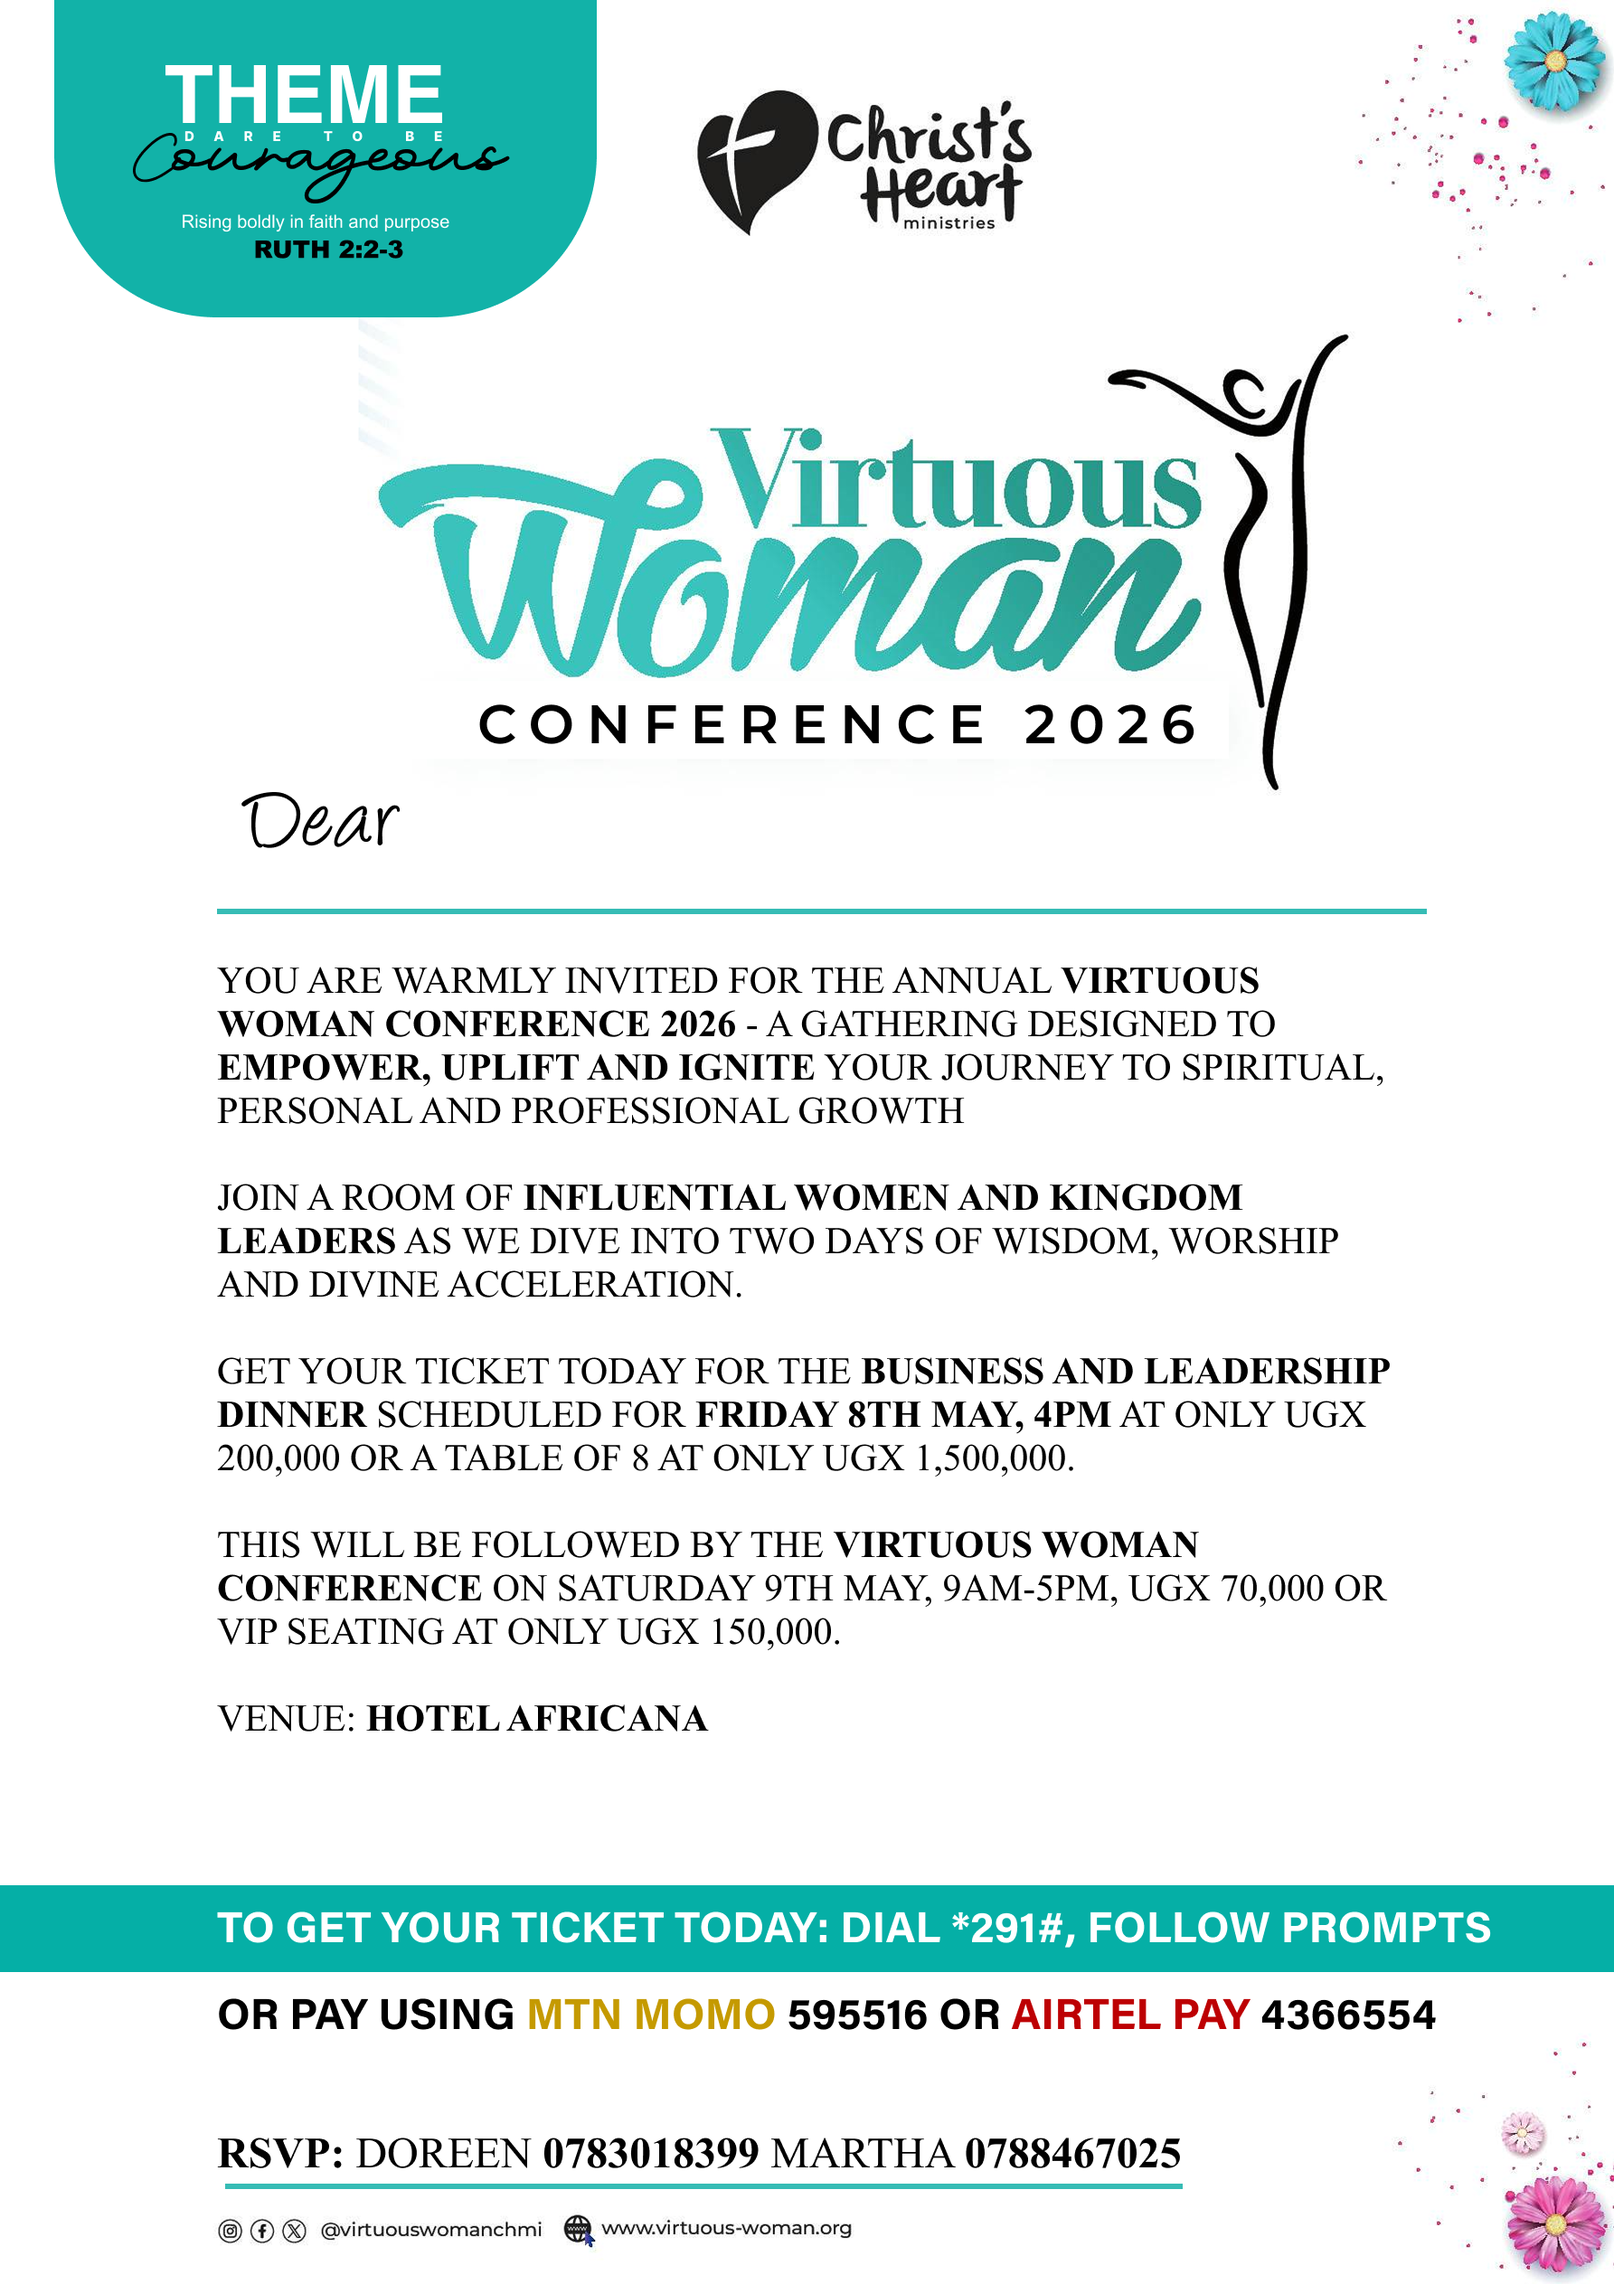
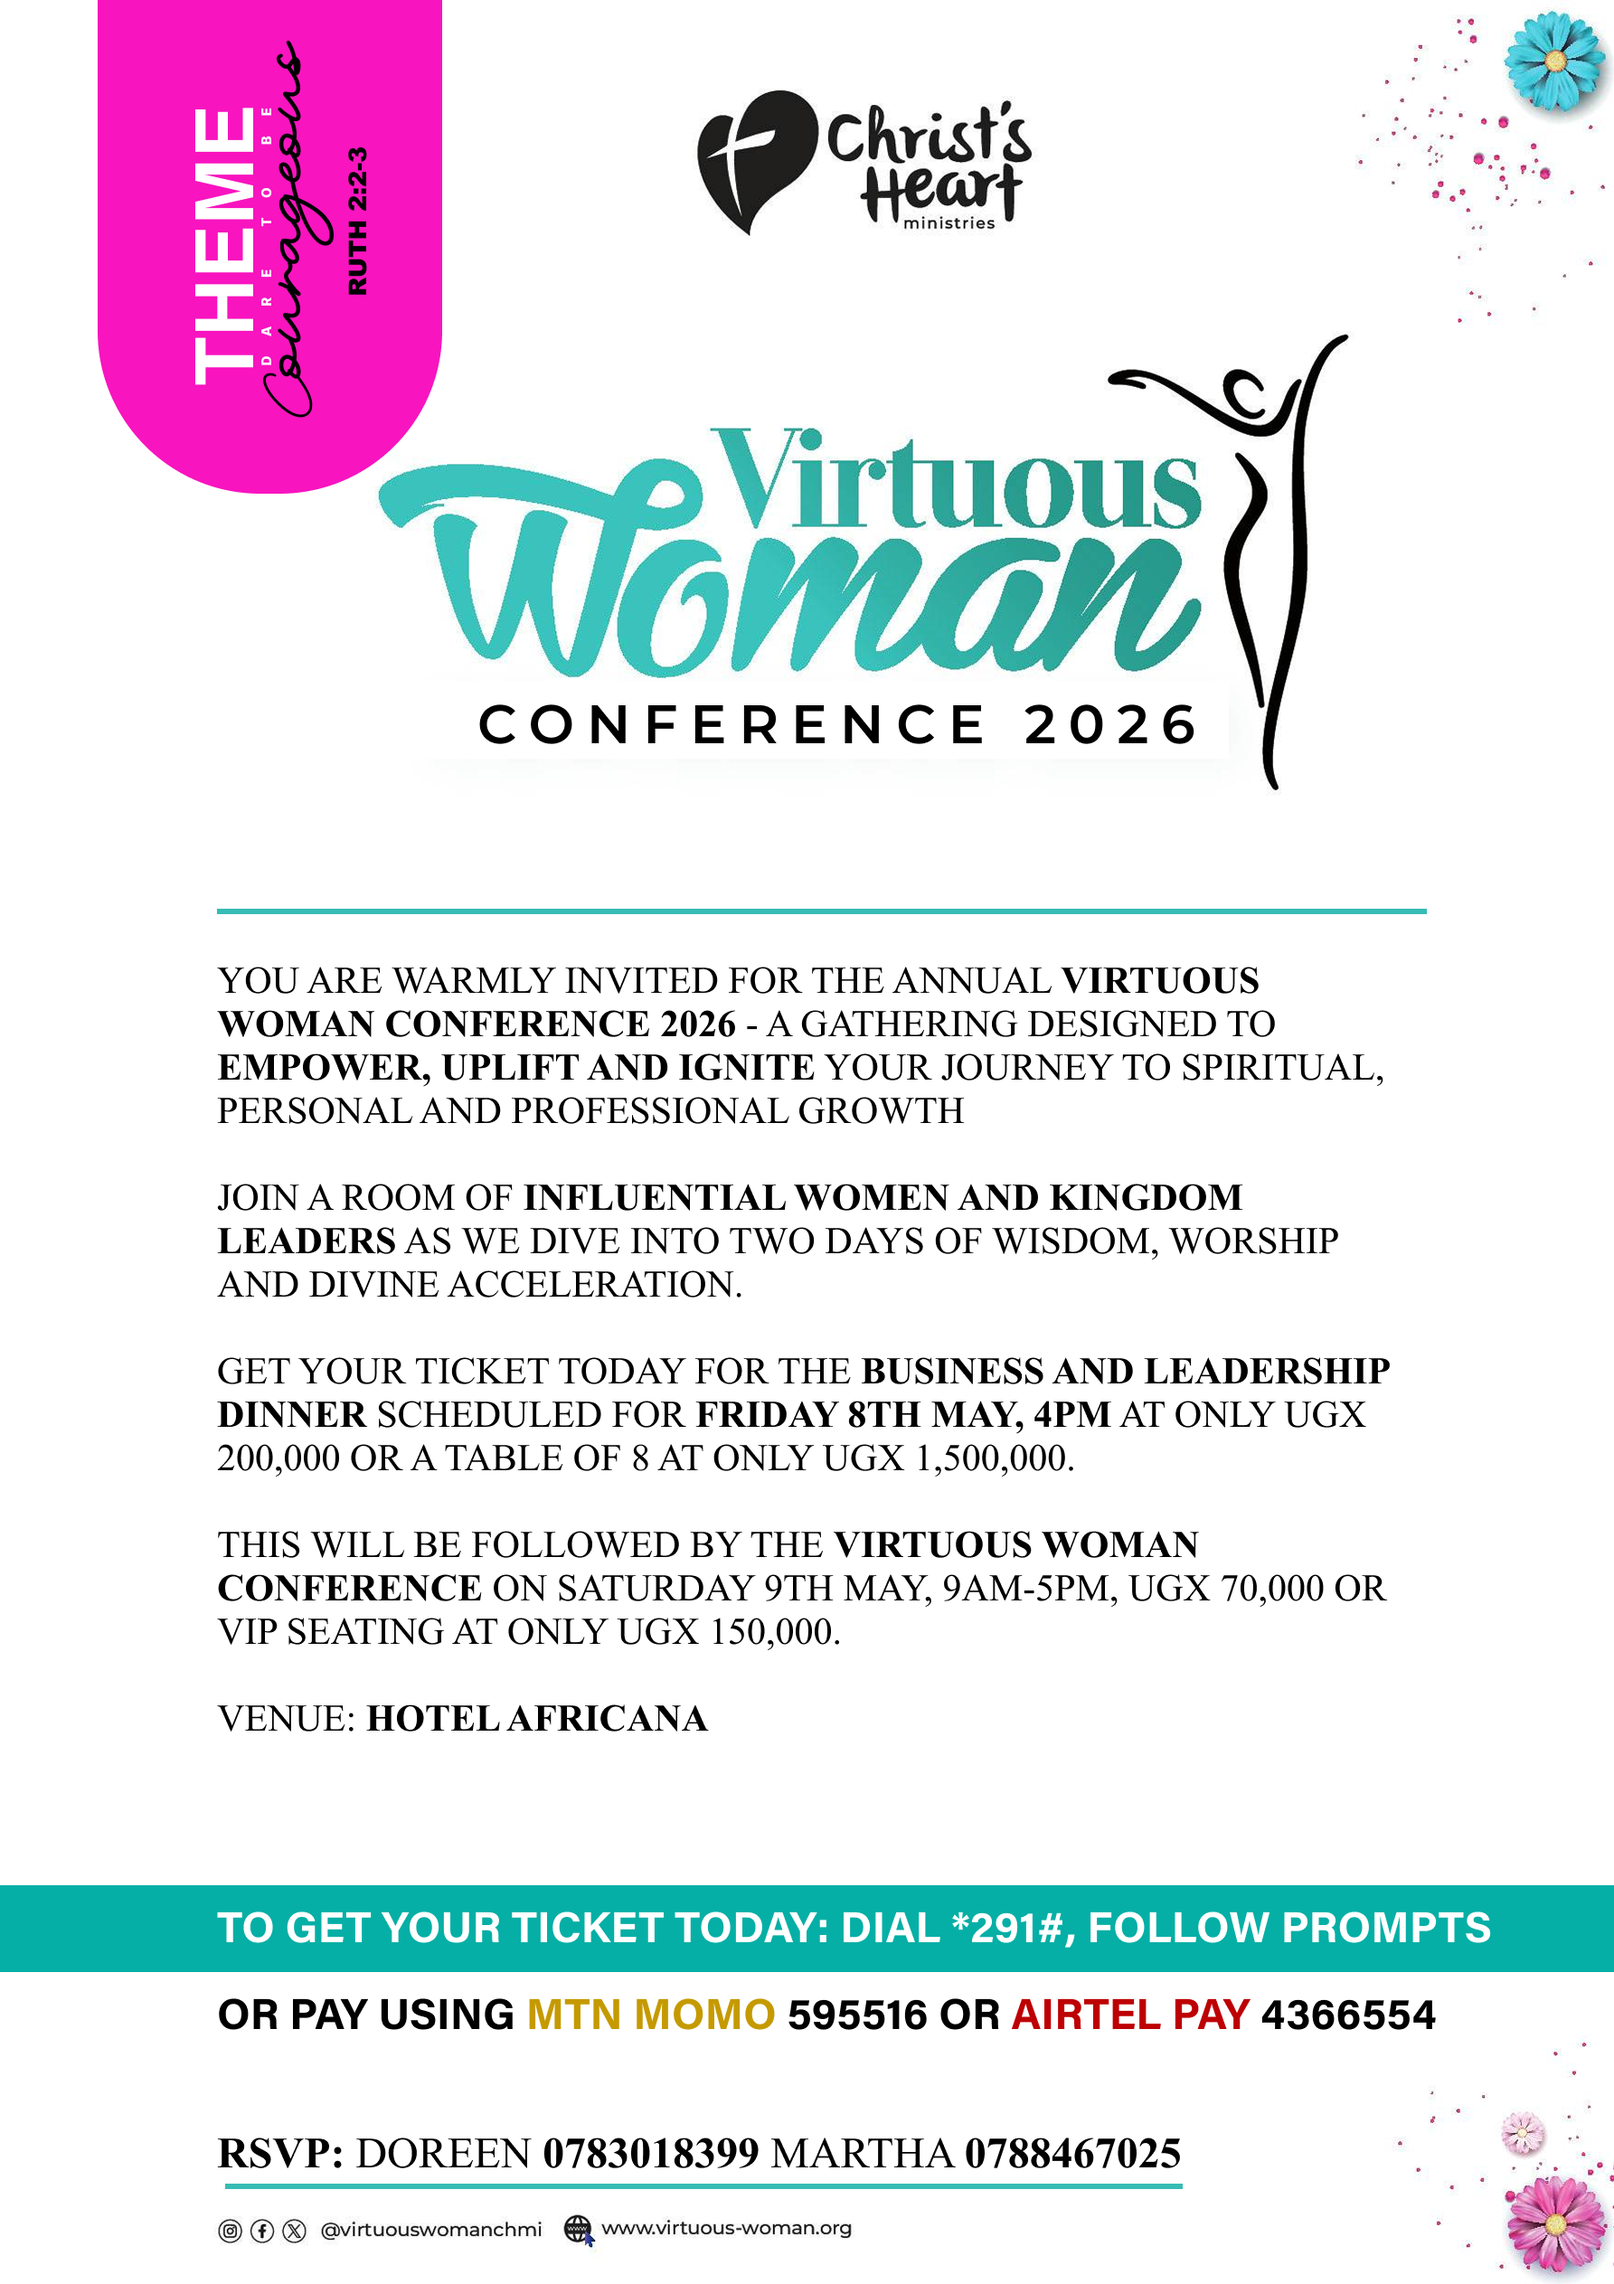
designed card anew to pink

Changed region(s): [[0.0308, 0.0, 0.3697, 0.2162], [0.1541, 0.3397, 0.2465, 0.3705]]

diff --git a/src/app/card-generator/card-generator.component.css b/src/app/card-generator/card-generator.component.css
@@ -19,7 +19,7 @@
   font-size: 17.5px;
   font-family: "Poppins", sans-serif;
   font-weight: 600;
-  color: rgb(0, 143, 112);
+  color: rgb(204, 0, 132);
   text-align: center;
   width: 100%;
   box-sizing: border-box;
